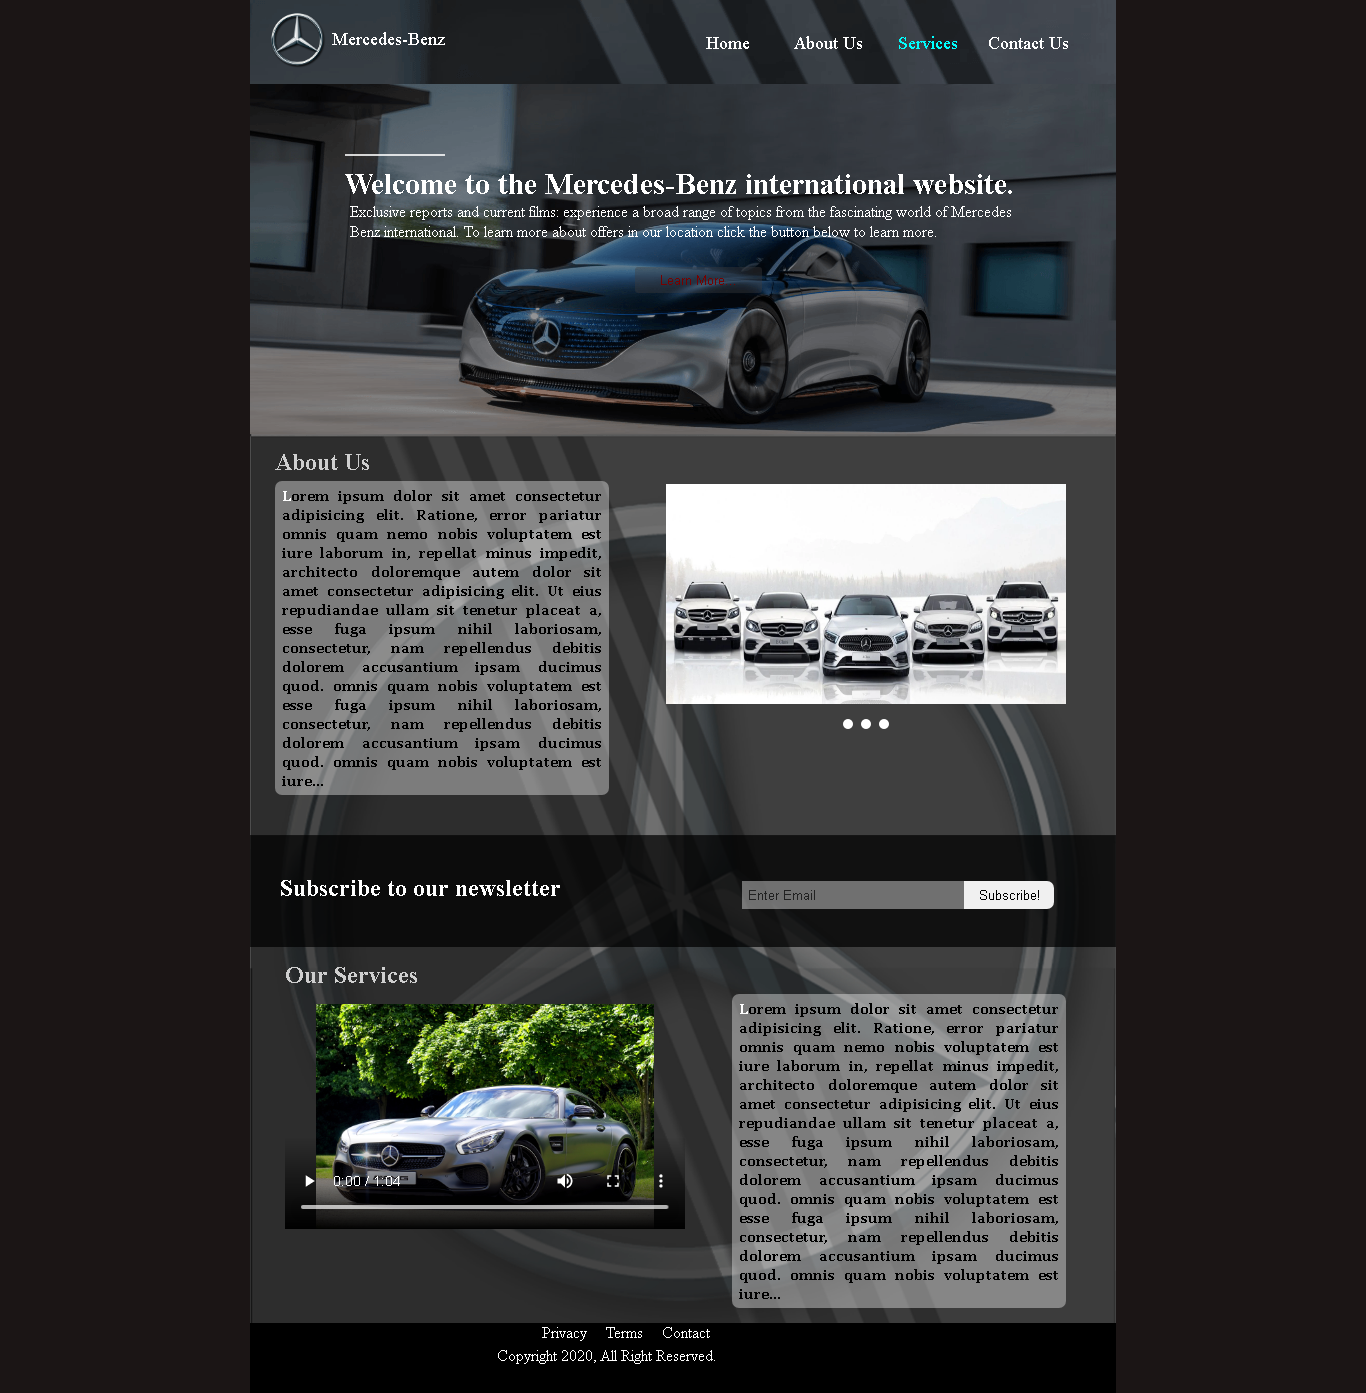
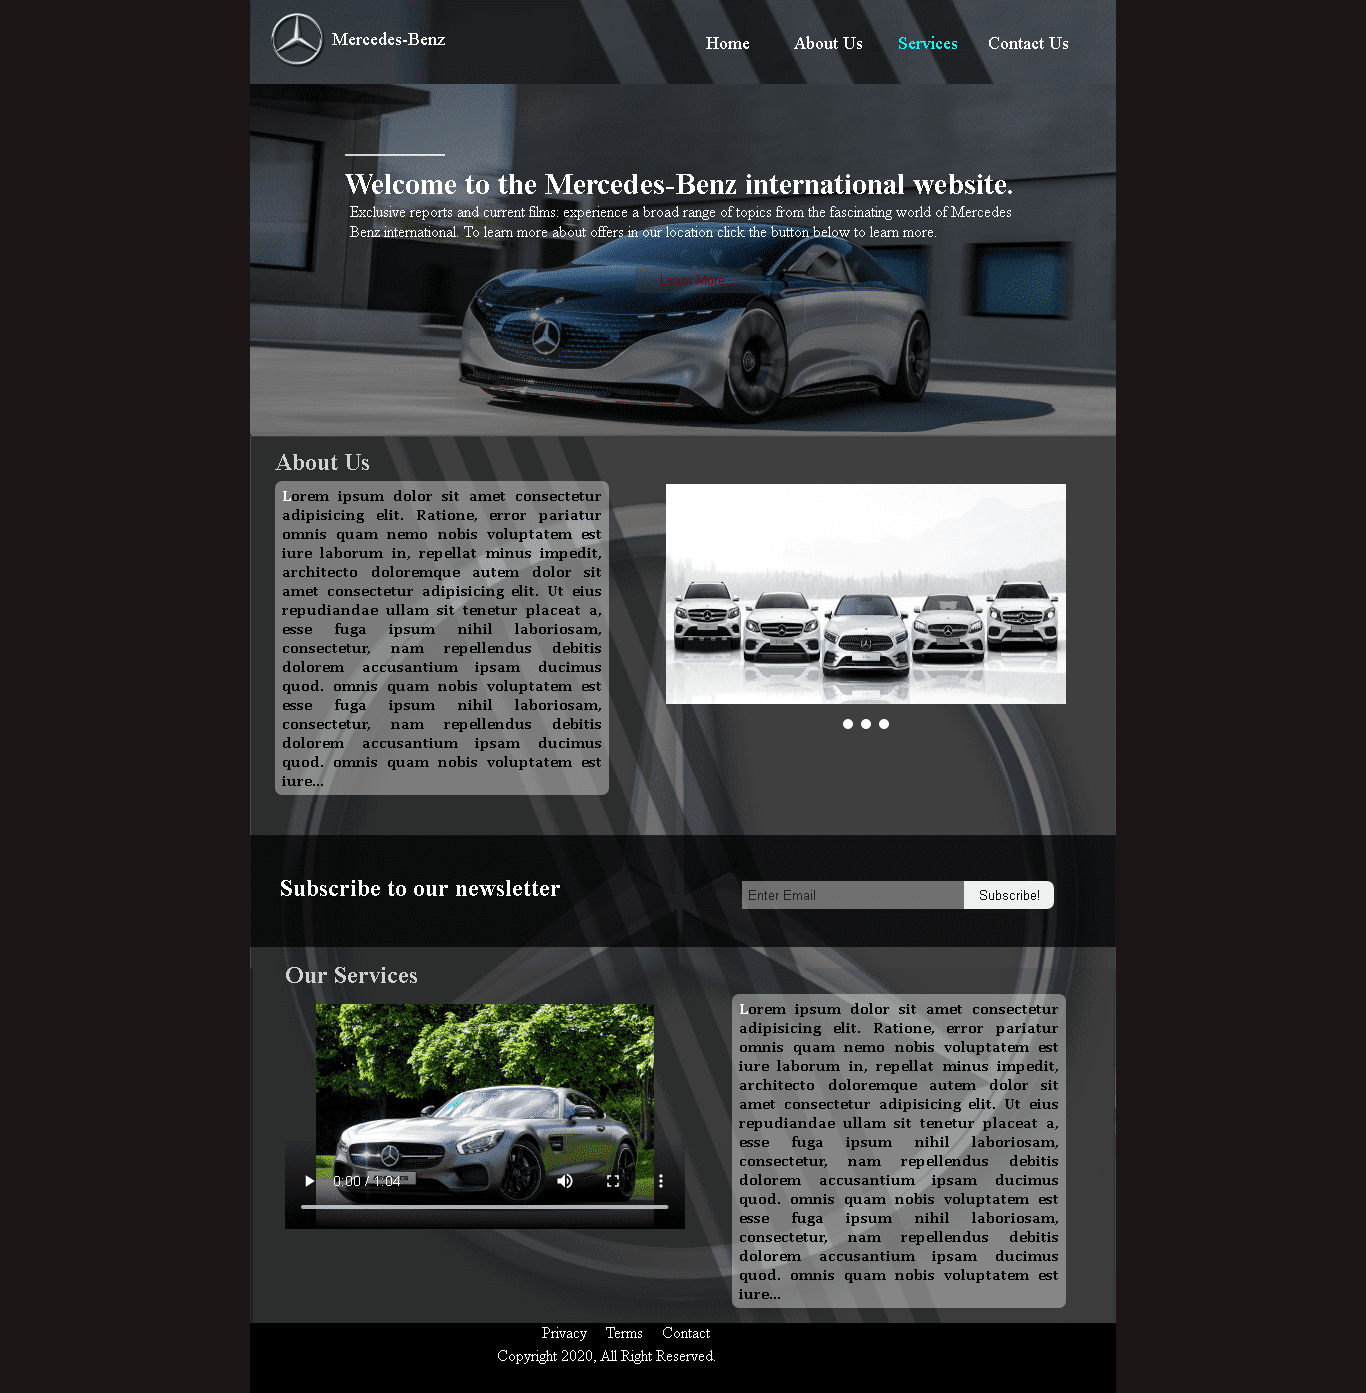
initial commit

diff --git a/css/main.css b/css/main.css
@@ -110,7 +110,7 @@ img {
   align-items: center;
   width: 100%;
   height: 100vh;
-  background-image: url(../img/profilePic.png);
+  background-image: url(../img/1profilePic.png);
   background-size: cover;
   background-repeat: no-repeat;
 }
